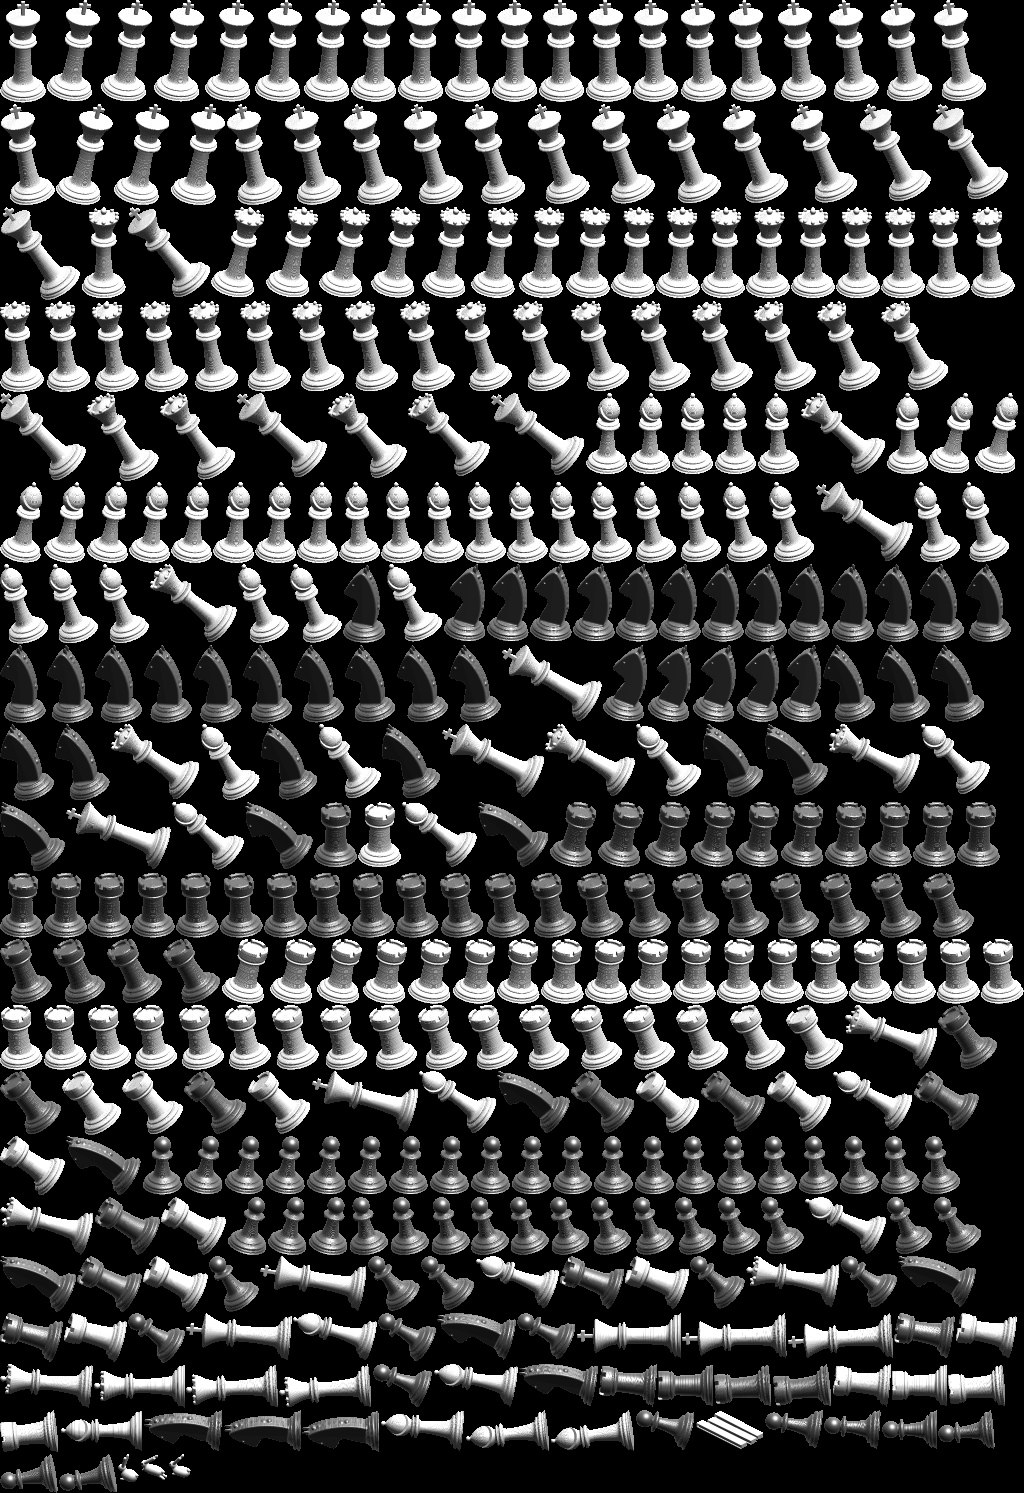
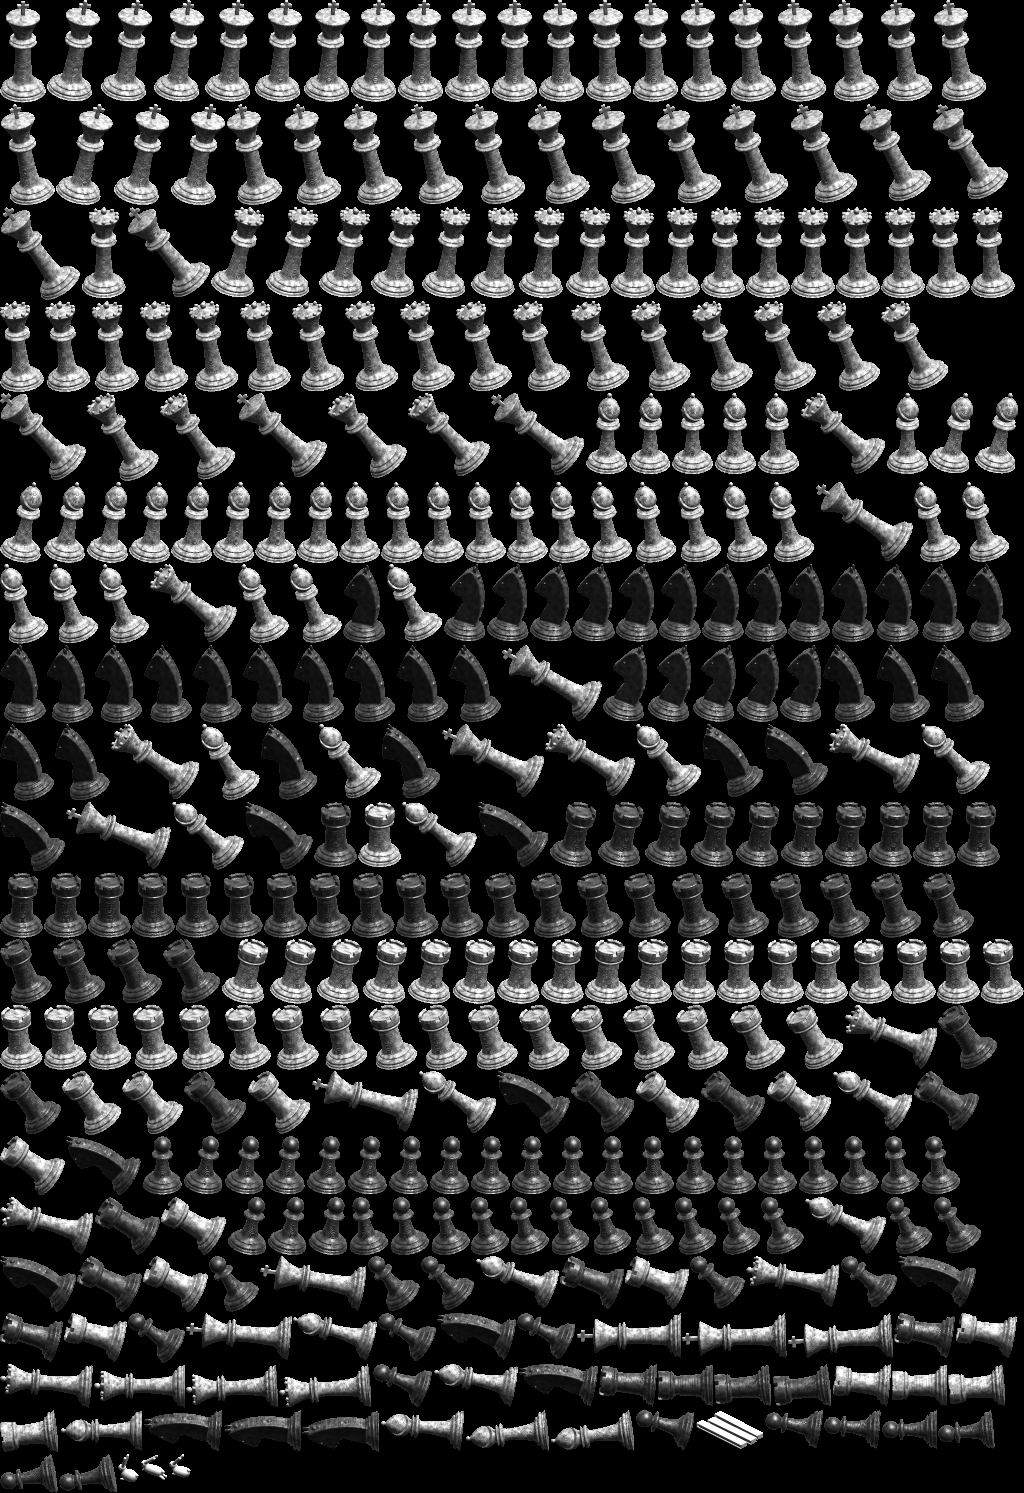
Add surface texture to the chess pieces
Layered value noise and a fine grain are sampled in each piece's own frame, so the
mottling stays on the piece while it topples.

Claude-Session: https://claude.ai/code/session_01UiWu3RKjZToSuM8yo714vw

Changed region(s): [[0.0, 0.0, 1.0, 1.0]]

diff --git a/source/build/pieces.py b/source/build/pieces.py
@@ -400,7 +400,8 @@ def render(sdf, height, radius, *, scale=SCALE, ss=4, azim=0.0, material='white'
         rim = np.clip(1.0 - np.abs(nrm @ VIEW), 0.0, 1.0)
         s = 0.03 + 0.34 * diff * ao + 0.12 * top * ao + 0.34 * rim ** 2.0 + 0.75 * spec ** 22
     if albedo_fn is not None:
-        s = s * albedo_fn(p)
+        to_local = getattr(sdf, 'to_local', None)
+        s = s * albedo_fn(to_local(p) if to_local else p)
     shade_ss = np.zeros(n); shade_ss[idx] = np.clip(s, 0.0, 1.0)
     cov_ss = np.zeros(n); cov_ss[idx] = 1.0
     shade_ss = shade_ss.reshape(Hh, ss, W, ss)
@@ -441,11 +442,49 @@ def bunny_albedo(pose):
 
 
 # ---------------------------------------------------------------- toppling
+def _local(sdf):
+    return getattr(sdf, 'to_local', lambda p: p)
+
+
+# ---------------------------------------------------------------- surface texture
+def _hash3(ix, iy, iz):
+    h = (ix * 73856093) ^ (iy * 19349663) ^ (iz * 83492791)
+    h = (h ^ (h >> 13)) * 1274126177
+    return ((h ^ (h >> 16)) & 0xFFFF) / 65535.0
+
+
+def value_noise(p, freq):
+    q = p * freq
+    i = np.floor(q).astype(np.int64)
+    f = q - i
+    f = f * f * (3.0 - 2.0 * f)
+    out = 0.0
+    for dz in (0, 1):
+        for dy in (0, 1):
+            for dx in (0, 1):
+                w = ((f[:, 0] if dx else 1 - f[:, 0]) * (f[:, 1] if dy else 1 - f[:, 1])
+                     * (f[:, 2] if dz else 1 - f[:, 2]))
+                out = out + w * _hash3(i[:, 0] + dx, i[:, 1] + dy, i[:, 2] + dz)
+    return out
+
+
+def piece_texture(p):
+    """Surface mottling for the pieces: layered value noise in the piece's own frame, plus a fine grain."""
+    n = (0.55 * value_noise(p, 7.0) + 0.30 * value_noise(p, 17.0) + 0.15 * value_noise(p, 41.0))
+    grain = value_noise(p, 95.0)
+    k = 0.72 + 0.9 * (n - 0.5) + 0.22 * (grain - 0.5)
+    return np.clip(k, 0.25, 1.25)
+
+
 def with_azimuth(sdf, azim):
     ca, sa = math.cos(azim), math.sin(azim)
     def f(p):
         q = np.stack([ca * p[:, 0] + sa * p[:, 1], -sa * p[:, 0] + ca * p[:, 1], p[:, 2]], axis=-1)
         return sdf(q)
+    def to_local(p):
+        q = np.stack([ca * p[:, 0] + sa * p[:, 1], -sa * p[:, 0] + ca * p[:, 1], p[:, 2]], axis=-1)
+        return _local(sdf)(q)
+    f.to_local = to_local
     return f
 
 
@@ -487,4 +526,11 @@ def toppled(sdf, theta, pivot_x, lift):
         lx = x * c + z * s
         lz = -x * s + z * c
         return sdf(np.stack([lx + pivot_x, p[:, 1], lz], axis=-1))
+    def to_local(p):
+        x = p[:, 0] - pivot_x
+        z = p[:, 2] - lift
+        lx = x * c + z * s
+        lz = -x * s + z * c
+        return _local(sdf)(np.stack([lx + pivot_x, p[:, 1], lz], axis=-1))
+    f.to_local = to_local
     return f

diff --git a/source/build/render_all.py b/source/build/render_all.py
@@ -8,10 +8,11 @@ them with rigid-body physics, so frames are finer where the motion is slow.
 import json, math, os, sys, time
 import numpy as np
 from PIL import Image
-sys.path.insert(0, '/home/claude/portfolio/build')
+HERE = os.path.dirname(os.path.abspath(__file__))
+sys.path.insert(0, HERE)
 import pieces as P
 
-OUT = '/home/claude/portfolio/build/out'
+OUT = os.path.join(HERE, 'out')
 os.makedirs(OUT, exist_ok=True)
 
 PIECES = [
@@ -48,7 +49,7 @@ for name, fac, mat, az in PIECES:
     t0 = time.time()
     f0, h, r = fac()
     f = P.with_azimuth(f0, az)
-    results[name] = P.render(f, h, r, material=mat)
+    results[name] = P.render(f, h, r, material=mat, albedo_fn=P.piece_texture)
     pts = P.point_cloud(f, h, r)
     base = pts[pts[:, 2] < 0.2]
     pivL, pivR = float(base[:, 0].min()), float(base[:, 0].max())
@@ -69,7 +70,7 @@ for name, fac, mat, az in PIECES:
         sy = ys * P.SE + wz * P.CE
         bounds = (float(wx.min()) - 0.2, float(wx.max()) + 0.2, float(sy.min()) - 0.2, float(sy.max()) + 0.2)
         nm = f'{name}_r{k}'
-        results[nm] = P.render(g, h, r, material=mat, ss=3, bounds=bounds)
+        results[nm] = P.render(g, h, r, material=mat, ss=3, bounds=bounds, albedo_fn=P.piece_texture)
         seq.append([nm, round(float(deg), 2)])
     frames[name] = seq
     phys[name] = {'rest': round(rest, 2), 'critL': round(critL, 2), 'critR': round(critR, 2)}
